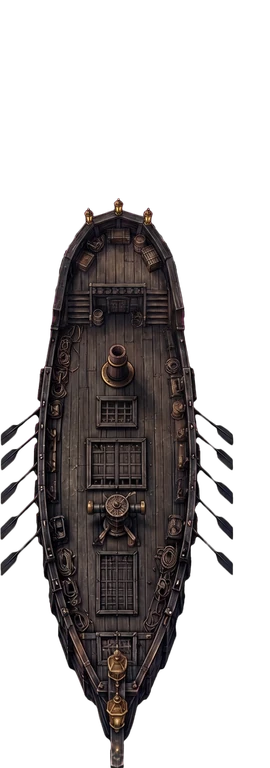
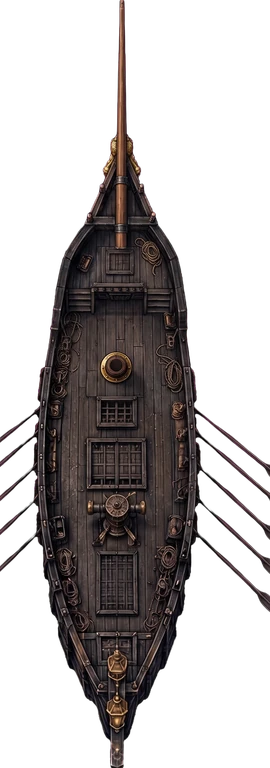
Hulls re-done: smugglers_lugger with her sharp bow, bowsprit and long sweeps

diff --git a/shared/src/data/maststeps.ts b/shared/src/data/maststeps.ts
@@ -1,6 +1,6 @@
 // Written by tools/art/ships_nomast.py and tools/art/masts.py (2026-11-16): where each mastless hull's mast steps are
 // (fractions of its picture's height from the top, on its centreline), and each mast picture's pivot (its round top).
-export const MAST_STEPS: Record<string, number[]> = {"albatross_xebec":[0.3125,0.6641],"armed_fluyt":[0.3503,0.4857,0.6341],"baltimore_clipper":[0.3607,0.6263],"barque":[0.457,0.6055],"black_corsair":[0.3776,0.5208,0.668],"bomb_ketch":[0.3021,0.6263],"brig":[0.3815,0.5404],"brigantine":[0.3737,0.8333],"bulldog":[0.4714],"buss":[0.2773,0.4674,0.6745],"cargo_frigate":[0.405,0.541,0.741],"carrack":[0.3086,0.4961,0.5951],"cog":[0.5508],"collier":[0.3086,0.4701,0.6549],"coral_hulk":[0.3411,0.4544,0.7018],"corvette":[0.263,0.3594,0.5547],"crimson_tide":[0.2448,0.3945,0.5052],"cursed_frigate":[0.2852,0.5286,0.7318],"cutter":[0.582],"dolphin":[0.519,0.64],"dragon_junk":[0.3438,0.474,0.5885],"drowned_cathedral":[0.3359,0.5013,0.6589],"dunkirk_frigate":[0.3516,0.4974,0.6641],"east_indiaman":[0.3906,0.4987,0.651],"felucca":[0.418,0.64],"fireship":[0.3503,0.5247],"fishing_ketch":[0.3255,0.7057],"floating_bazaar":[0.319,0.4635,0.5977],"floating_fortress":[0.2669,0.5521],"fluyt":[0.2826,0.4961],"flying_fish":[0.366,0.506],"frigate":[0.289,0.48,0.69],"galiot":[0.308,0.52],"galleon":[0.2982,0.5143,0.7396],"ghost_clipper":[0.357,0.473,0.57],"ghost_ship":[0.32,0.5,0.647],"golden_carrack":[0.4505,0.5352],"golden_lion":[0.368,0.5443,0.661],"great_galleon":[0.353,0.5,0.6237],"great_indiaman":[0.4427],"great_xebec":[0.3724,0.5286,0.6419],"gunboat":[0.5833],"harpoon_whaler":[0.3346,0.5234,0.7318],"hoy":[0.4922],"hulk":[0.3411,0.4987],"icebound_hulk":[0.2266,0.3633,0.5508],"iron_ram":[0.388,0.5195],"iron_whale":[0.2474,0.3659,0.4935],"kraken_hunter":[0.4583],"lantern_sampan":[0.3411],"ledger_galleon":[0.2109,0.3633,0.5456],"leviathan_ark":[0.23,0.451,0.5612,0.731],"lugger":[0.331,0.507,0.65],"man_o_war":[0.349,0.4987,0.6758],"manila_galleon":[0.2617,0.3542,0.5182],"menagerie":[0.3086,0.457,0.681],"mermaid_grace":[0.3854,0.4557,0.6406],"mimic_barge":[0.3099],"pearl_schooner":[0.4674,0.6784],"phantom_brig":[0.3568,0.5846],"pink":[0.39,0.5208,0.5977],"pinnace":[0.391,0.609],"pirate_haven":[0.4805,0.6406],"plate_galleon":[0.2656,0.3867,0.5534,0.7057],"polacre":[0.3294,0.5065,0.6784],"race_galleon":[0.2839,0.4323,0.5195,0.819],"razee":[0.4557],"rum_runner":[0.4974],"sailfish":[0.3997,0.5026],"saint_elmo":[0.401,0.5521],"schooner":[0.2253,0.444],"scout_cutter":[0.582],"sea_hawk":[0.309,0.435,0.731],"shark_cutter":[0.3841,0.5221],"ship_of_the_line":[0.237,0.3659,0.5326],"silk_junk":[0.401,0.5208,0.6888],"silver_arrow":[0.3438,0.4661,0.5469,0.6628],"sloop":[0.5951],"sloop_of_war":[0.3633,0.5143,0.668],"smugglers_lugger":[0.457],"snow":[0.388,0.6732],"spice_dhow":[0.3294,0.6172],"storeship":[0.3438,0.474,0.599],"storm_petrel":[0.4141,0.4922,0.5625],"storm_reaver":[0.4935],"sun_galleon":[0.4961],"tartane":[0.4219,0.582],"tea_clipper":[0.3477,0.4844,0.6471,0.7917],"thunderer":[0.2904,0.4557,0.5846],"topsail_schooner":[0.4049,0.6133],"treasure_fluyt":[0.4844],"treasure_junk":[0.337,0.3984,0.4753,0.5456],"turtle_barge":[0.4753],"viper":[0.5404],"war_galley":[0.3451,0.5964],"whale_mother":[0.2969,0.4193,0.556,0.7266],"wind_dancer":[0.4544],"wyvern_galleass":[0.3464,0.556,0.7643],"xebec":[0.3099,0.5169,0.7383],"zb_ashen_isles":[0.4466],"zb_black_coast":[0.2878,0.3815,0.5247],"zb_dead_mans_expanse":[0.3594,0.4805,0.7253],"zb_drowned_crown":[0.2435,0.4323,0.5521],"zb_gravewater":[0.2956,0.3893,0.5247],"zb_leviathan_reach":[0.3138,0.4961,0.6211],"zb_the_abyss":[0.306,0.5065,0.6693],"zb_whispering":[0.3685,0.4974]};
+export const MAST_STEPS: Record<string, number[]> = {"albatross_xebec":[0.3125,0.6641],"armed_fluyt":[0.3503,0.4857,0.6341],"baltimore_clipper":[0.3607,0.6263],"barque":[0.457,0.6055],"black_corsair":[0.3776,0.5208,0.668],"bomb_ketch":[0.3021,0.6263],"brig":[0.3815,0.5404],"brigantine":[0.3737,0.8333],"bulldog":[0.4714],"buss":[0.2773,0.4674,0.6745],"cargo_frigate":[0.405,0.541,0.741],"carrack":[0.3086,0.4961,0.5951],"cog":[0.5508],"collier":[0.3086,0.4701,0.6549],"coral_hulk":[0.3411,0.4544,0.7018],"corvette":[0.263,0.3594,0.5547],"crimson_tide":[0.2448,0.3945,0.5052],"cursed_frigate":[0.2852,0.5286,0.7318],"cutter":[0.582],"dolphin":[0.519,0.64],"dragon_junk":[0.3438,0.474,0.5885],"drowned_cathedral":[0.3359,0.5013,0.6589],"dunkirk_frigate":[0.3516,0.4974,0.6641],"east_indiaman":[0.3906,0.4987,0.651],"felucca":[0.418,0.64],"fireship":[0.3503,0.5247],"fishing_ketch":[0.3255,0.7057],"floating_bazaar":[0.319,0.4635,0.5977],"floating_fortress":[0.2669,0.5521],"fluyt":[0.2826,0.4961],"flying_fish":[0.366,0.506],"frigate":[0.289,0.48,0.69],"galiot":[0.308,0.52],"galleon":[0.2982,0.5143,0.7396],"ghost_clipper":[0.357,0.473,0.57],"ghost_ship":[0.32,0.5,0.647],"golden_carrack":[0.4505,0.5352],"golden_lion":[0.368,0.5443,0.661],"great_galleon":[0.353,0.5,0.6237],"great_indiaman":[0.4427],"great_xebec":[0.3724,0.5286,0.6419],"gunboat":[0.5833],"harpoon_whaler":[0.3346,0.5234,0.7318],"hoy":[0.4922],"hulk":[0.3411,0.4987],"icebound_hulk":[0.2266,0.3633,0.5508],"iron_ram":[0.388,0.5195],"iron_whale":[0.2474,0.3659,0.4935],"kraken_hunter":[0.4583],"lantern_sampan":[0.3411],"ledger_galleon":[0.2109,0.3633,0.5456],"leviathan_ark":[0.23,0.451,0.5612,0.731],"lugger":[0.331,0.507,0.65],"man_o_war":[0.349,0.4987,0.6758],"manila_galleon":[0.2617,0.3542,0.5182],"menagerie":[0.3086,0.457,0.681],"mermaid_grace":[0.3854,0.4557,0.6406],"mimic_barge":[0.3099],"pearl_schooner":[0.4674,0.6784],"phantom_brig":[0.3568,0.5846],"pink":[0.39,0.5208,0.5977],"pinnace":[0.391,0.609],"pirate_haven":[0.4805,0.6406],"plate_galleon":[0.2656,0.3867,0.5534,0.7057],"polacre":[0.3294,0.5065,0.6784],"race_galleon":[0.2839,0.4323,0.5195,0.819],"razee":[0.4557],"rum_runner":[0.4974],"sailfish":[0.3997,0.5026],"saint_elmo":[0.401,0.5521],"schooner":[0.2253,0.444],"scout_cutter":[0.582],"sea_hawk":[0.309,0.435,0.731],"shark_cutter":[0.3841,0.5221],"ship_of_the_line":[0.237,0.3659,0.5326],"silk_junk":[0.401,0.5208,0.6888],"silver_arrow":[0.3438,0.4661,0.5469,0.6628],"sloop":[0.5951],"sloop_of_war":[0.3633,0.5143,0.668],"smugglers_lugger":[0.4792],"snow":[0.388,0.6732],"spice_dhow":[0.3294,0.6172],"storeship":[0.3438,0.474,0.599],"storm_petrel":[0.4141,0.4922,0.5625],"storm_reaver":[0.4935],"sun_galleon":[0.4961],"tartane":[0.4219,0.582],"tea_clipper":[0.3477,0.4844,0.6471,0.7917],"thunderer":[0.2904,0.4557,0.5846],"topsail_schooner":[0.4049,0.6133],"treasure_fluyt":[0.4844],"treasure_junk":[0.337,0.3984,0.4753,0.5456],"turtle_barge":[0.4753],"viper":[0.5404],"war_galley":[0.3451,0.5964],"whale_mother":[0.2969,0.4193,0.556,0.7266],"wind_dancer":[0.4544],"wyvern_galleass":[0.3464,0.556,0.7643],"xebec":[0.3099,0.5169,0.7383],"zb_ashen_isles":[0.4466],"zb_black_coast":[0.2878,0.3815,0.5247],"zb_dead_mans_expanse":[0.3594,0.4805,0.7253],"zb_drowned_crown":[0.2435,0.4323,0.5521],"zb_gravewater":[0.2956,0.3893,0.5247],"zb_leviathan_reach":[0.3138,0.4961,0.6211],"zb_the_abyss":[0.306,0.5065,0.6693],"zb_whispering":[0.3685,0.4974]};
 export const MAST_PIVOT: Record<string, number> = {"square_full":0.2397,"square_reef":0.3503,"square_furl":0.4419,"square_bare":0.4348,"fore_aft_full_x":0.2105,"fore_aft_full":0.2781,"fore_aft_reef_x":0.1809,"fore_aft_reef":0.3263,"fore_aft_furl_x":0.1489,"fore_aft_furl":0.3558,"fore_aft_bare_x":0.1367,"fore_aft_bare":0.3584};
 // the ships whose sails were dyed (their old paintings): the grey canvas of the mast sets takes this colour
 export const MAST_TINT: Record<string, string> = {"crimson_tide":"#7a1f1c","black_corsair":"#4e1a19","dragon_junk":"#6e2a1e","treasure_junk":"#6a2a22","golden_lion":"#74322a","zb_ashen_isles":"#4a2a22","silk_junk":"#33456e","spice_dhow":"#a57945","golden_carrack":"#b8975e","sun_galleon":"#cdb88e"};
